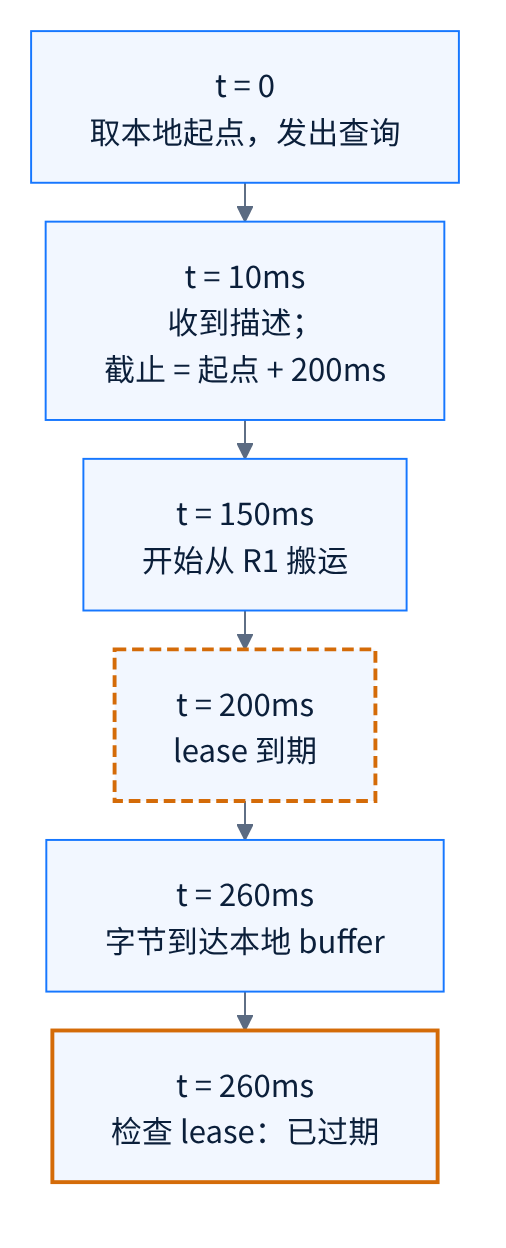
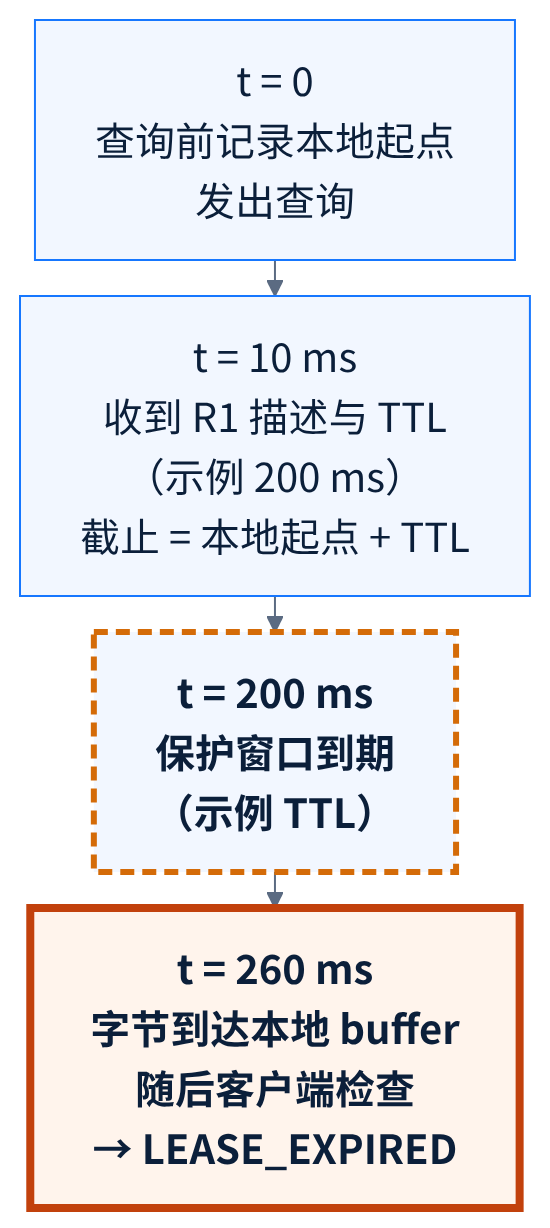
[Docs] Refine WeChat KV cache series titles, figures, and prose
- Rewrite H1 titles around the technical question; keep numbering only in indexes
- Redraw 01 fig1 and 07 fig2 from Graphviz sources for narrow single-column reading
- Compress 04 lease timeline to four nodes and clarify the LOCAL_DISK exception scope
- Restructure 05 troubleshooting into an observation/exclusion/next-check table
- Open 06 with a cross-backend batch failure and separate submitted, accepted, and complete states
- Split 11 shared-Store reuse from Prefill/Decode handoff to avoid repeated explanation

Changed region(s): [[0.0296, 0.0, 0.9783, 0.9902], [0.9486, 0.2476, 0.9783, 0.4951], [0.0296, 0.2476, 0.0593, 0.4951]]

diff --git a/mooncake-kv-cache-series/wechat/README.md b/mooncake-kv-cache-series/wechat/README.md
@@ -8,17 +8,17 @@
 
 | 篇次 | 文章 | 对应源码解析版 |
 |---|---|---|
-| 1 | [同样的 1,024 个前缀 token，第二台推理实例还要再算一遍吗？](01-shared-kv-cache.md) | [篇0：架构总览](../00-architecture-overview.md) |
+| 1 | [同样的 1,024 个前缀 token，第二台推理实例还要重算吗？](01-shared-kv-cache.md) | [篇0：架构总览](../00-architecture-overview.md) |
 | 2 | [一个 KV Cache 对象，在 Mooncake 里到底怎么放？](02-objects-and-replicas.md) | [篇4：核心数据结构](../04-core-data-structures.md) |
-| 3 | [Mooncake 里 KV Cache 字节已经写完，为什么另一个 Client 还读不到？](03-put-visibility.md) | [篇2：Put 路径](../02-put-path.md) |
-| 4 | [Mooncake 里 KV Cache 字节读回来了，这次 Get 为什么还可能失败？](04-get-and-lease.md) | [篇3：Get 路径](../03-get-path.md) |
-| 5 | [Mooncake 里 key 明明存在，为什么还是读不到副本？](05-source-reading.md) | [篇1：源码导航](../01-source-navigation.md) |
+| 3 | [KV 已经写到远端，Mooncake 什么时候才让其他实例读？](03-put-visibility.md) | [篇2：Put 路径](../02-put-path.md) |
+| 4 | [KV 已经读回本地，这次 Get 为什么还会返回 LEASE_EXPIRED？](04-get-and-lease.md) | [篇3：Get 路径](../03-get-path.md) |
+| 5 | [Mooncake 报 REPLICA_IS_NOT_READY，应该从哪里查起？](05-source-reading.md) | [篇1：源码导航](../01-source-navigation.md) |
 | 6 | [Transfer Engine 返回成功，数据就传完了吗？](06-transfer-lifecycle.md) | [篇5：TE 生命周期](../05-transfer-engine-task-lifecycle.md) |
-| 7 | [一次 RDMA 传输，究竟经历了什么？](07-rdma-data-path.md) | [篇6：RDMA 数据路径](../06-rdma-data-path.md) |
+| 7 | [一次 RDMA WRITE：KV 怎么写到远端，谁来确认传输完成？](07-rdma-data-path.md) | [篇6：RDMA 数据路径](../06-rdma-data-path.md) |
 | 8 | [双网卡跑 Mooncake，RDMA 流量到底走了哪张卡？](08-multi-nic-numa.md) | [篇7：多网卡与 NUMA](../07-multi-nic-numa.md) |
-| 9 | [缓存满了，刚被读到的 KV Cache，淘汰线程为什么删不掉它？](09-cache-eviction.md) | [篇8：缓存生命周期](../08-cache-lifecycle.md) |
+| 9 | [已经选中要淘汰的 KV，为什么又被跳过了？](09-cache-eviction.md) | [篇8：缓存生命周期](../08-cache-lifecycle.md) |
 | 10 | [KV Cache 已经写进 SSD，为什么其他节点还可能读不到？](10-ssd-tiering.md) | [篇9：SSD 分层](../09-ssd-tiering.md) |
-| 11 | [共享了 KV Cache，为什么推理不一定更快？](11-kv-reuse-and-inference.md) | [篇10：vLLM 集成](../10-vllm-integration.md) |
+| 11 | [共享 KV Cache 命中了，首个 token 为什么还可能没变快？](11-kv-reuse-and-inference.md) | [篇10：vLLM 集成](../10-vllm-integration.md) |
 
 ## 公众号排版
 
@@ -37,7 +37,9 @@
 
 “配图”说明用于标识插图位置；发布时用导出的图片替换代码块，并保留有解释作用的图注。原理图不表达未经验证的性能倍数。
 
-11 篇均已由 `build_publish.py` 生成 `publish/` 目录下的发布稿 Markdown 与 PNG。`publish/` 下的 HTML、report.json 与 manifest.json 已删除；如需本地预览，需要重新运行完整构建。此前的 360px、390px Chrome 视口检查和第 1、3、4、6、7、10 篇人工复核针对已删除的旧 HTML，不能代表当前 Markdown。本轮未向公众号发布，未做微信编辑器粘贴预览，也未上传公众号素材库。
+第 1 篇配图1 与第 7 篇配图2 需要固定上下位置和就近标注，Mermaid 自动布局无法稳定满足手机单栏阅读，已改用 `figures/*.dot`（Graphviz）作为图源，并导出到 `publish/images/`。其余配图仍以正文中的 Mermaid 块为图源。本轮标题与正文修订直接落在 `publish/` 发布稿，源稿正文尚未逐段回填；重跑完整构建前需先同步，否则会覆盖发布稿正文。
+
+11 篇均已由 `build_publish.py` 生成 `publish/` 目录下的发布稿 Markdown 与 PNG，其中第 1 篇配图1 与第 7 篇配图2 的 PNG 改用 `dot` 从上述 `.dot` 图源渲染。`publish/` 下的 HTML、report.json 与 manifest.json 已删除；如需本地预览，需要重新运行完整构建，但完整构建会用 Mermaid 版覆盖这两张 DOT 渲染的 PNG，之后须按前文命令重新导出。此前的 360px、390px Chrome 视口检查和第 1、3、4、6、7、10 篇人工复核针对已删除的旧 HTML，不能代表当前 Markdown。本轮未向公众号发布，未做微信编辑器粘贴预览，也未上传公众号素材库。
 
 ## 版本与证据边界
 

diff --git a/mooncake-kv-cache-series/wechat/publish/README.md b/mooncake-kv-cache-series/wechat/publish/README.md
@@ -8,19 +8,19 @@
 
 | 篇次 | 文章 | Markdown | 配图 |
 |---|---|---|---|
-| 1 | 第1篇｜同样的 1,024 个前缀 token，第二台推理实例还要再算一遍吗？ | [MD](./01-shared-kv-cache.md) | 1 |
-| 2 | 第2篇｜一个 KV Cache 对象，在 Mooncake 里到底怎么放？ | [MD](./02-objects-and-replicas.md) | 2 |
-| 3 | 第3篇｜Mooncake 里 KV Cache 字节已经写完，为什么另一个 Client 还读不到？ | [MD](./03-put-visibility.md) | 1 |
-| 4 | 第4篇｜Mooncake 里 KV Cache 字节读回来了，这次 Get 为什么还可能失败？ | [MD](./04-get-and-lease.md) | 1 |
-| 5 | 第5篇｜Mooncake 里 key 明明存在，为什么还是读不到副本？ | [MD](./05-source-reading.md) | 0 |
-| 6 | 第6篇｜Transfer Engine 返回成功，数据就传完了吗？ | [MD](./06-transfer-lifecycle.md) | 1 |
-| 7 | 第7篇｜一次 RDMA 传输，究竟经历了什么？ | [MD](./07-rdma-data-path.md) | 2 |
-| 8 | 第8篇｜双网卡跑 Mooncake，RDMA 流量到底走了哪张卡？ | [MD](./08-multi-nic-numa.md) | 1 |
-| 9 | 第9篇｜缓存满了，刚被读到的 KV Cache，淘汰线程为什么删不掉它？ | [MD](./09-cache-eviction.md) | 1 |
-| 10 | 第10篇｜KV Cache 已经写进 SSD，为什么其他节点还可能读不到？ | [MD](./10-ssd-tiering.md) | 2 |
-| 11 | 第11篇｜共享了 KV Cache，为什么推理不一定更快？ | [MD](./11-kv-reuse-and-inference.md) | 2 |
+| 1 | 同样的 1,024 个前缀 token，第二台推理实例还要重算吗？ | [MD](./01-shared-kv-cache.md) | 1 |
+| 2 | 一个 KV Cache 对象，在 Mooncake 里到底怎么放？ | [MD](./02-objects-and-replicas.md) | 2 |
+| 3 | KV 已经写到远端，Mooncake 什么时候才让其他实例读？ | [MD](./03-put-visibility.md) | 1 |
+| 4 | KV 已经读回本地，这次 Get 为什么还会返回 LEASE_EXPIRED？ | [MD](./04-get-and-lease.md) | 1 |
+| 5 | Mooncake 报 REPLICA_IS_NOT_READY，应该从哪里查起？ | [MD](./05-source-reading.md) | 0 |
+| 6 | Transfer Engine 返回成功，数据就传完了吗？ | [MD](./06-transfer-lifecycle.md) | 1 |
+| 7 | 一次 RDMA WRITE：KV 怎么写到远端，谁来确认传输完成？ | [MD](./07-rdma-data-path.md) | 2 |
+| 8 | 双网卡跑 Mooncake，RDMA 流量到底走了哪张卡？ | [MD](./08-multi-nic-numa.md) | 1 |
+| 9 | 已经选中要淘汰的 KV，为什么又被跳过了？ | [MD](./09-cache-eviction.md) | 1 |
+| 10 | KV Cache 已经写进 SSD，为什么其他节点还可能读不到？ | [MD](./10-ssd-tiering.md) | 2 |
+| 11 | 共享 KV Cache 命中了，首个 token 为什么还可能没变快？ | [MD](./11-kv-reuse-and-inference.md) | 2 |
 
-11 篇 Markdown 均已与源稿同步；配图数量为源稿中的 Mermaid 图数量。HTML 已删除，当前目录没有可打开的本地预览页。
+11 篇发布稿 Markdown 与配图均已保留；配图数量与源稿一致。发布稿正文是本轮修订后的版本，`wechat/` 源稿仍保留旧正文与 Mermaid 图源，二者尚未逐段同步。第1篇配图1、第7篇配图2 已改为 Graphviz DOT 图源（`../figures/*.dot`），PNG 由 `dot` 手动渲染；源稿中对应 Mermaid 块仅保留作语义参考。第4篇配图1 仍由 Mermaid 渲染。HTML 已删除，当前目录没有可打开的本地预览页。
 
 ## 构建与校验
 
@@ -32,6 +32,15 @@ python3 build_publish.py --articles all \
 ```
 
 脚本只替换 Mermaid 图与相对链接，不改写正文。完整构建会重新生成 HTML、`report.json`、`manifest.json` 与配图；当前仓库只保留发布稿 Markdown 和已导出的 PNG。
+
+注意：构建从 `wechat/NN-*.md` 读取正文，而本轮只修订了 `publish/` 下的正文。直接重跑完整构建会用源稿旧正文覆盖当前发布稿；若需重建，先把发布稿正文回填源稿。
+
+注意：`build_publish.py` 目前只渲染 Mermaid，不认识 `figures/*.dot`。直接重跑完整构建会用 Mermaid 版覆盖第1篇配图1和第7篇配图2的 PNG。这两张图需要先运行：
+
+```bash
+dot -Tpng -Gdpi=288 figures/01-shared-kv-cache-fig1.dot -o publish/images/01-shared-kv-cache-fig1.png
+dot -Tpng -Gdpi=288 figures/07-rdma-data-path-fig2.dot -o publish/images/07-rdma-data-path-fig2.png
+```
 
 本轮没有重建 HTML，因此没有新的 md2wx 报告或浏览器视口检查。HTML 恢复后，仍需在 360px、390px 视口检查横向溢出、图片加载和表格宽度。
 

diff --git a/mooncake-kv-cache-series/wechat/publish/11-kv-reuse-and-inference.md b/mooncake-kv-cache-series/wechat/publish/11-kv-reuse-and-inference.md
@@ -1,8 +1,8 @@
-# 第11篇｜共享了 KV Cache，为什么推理不一定更快？
+# 共享 KV Cache 命中了，首个 token 为什么还可能没变快？
 
 **摘要：**推理实例 A 写入的 1,024 token 前缀，推理实例 B 能命中。B 什么时候拿到首个 token，取决于加载、同步和调度，而不只取决于"命中"。
 
-回到第1篇的推理实例 A 和推理实例 B（下文简称 A、B）：同一段 1,024 个 token 的前缀，A 已经算过并以 key `K` 写入共享缓存，B 的请求命中这段前缀。
+回到第1篇的推理实例 A 和推理实例 B：同一段 1,024 个 token 的前缀，A 已经算过并以 key `K` 写入共享缓存，B 的请求命中这段前缀。
 
 B 不用再 Prefill 这 1,024 个 token，是否就能更早输出首个 token？
 
@@ -25,17 +25,17 @@ B 的框架大致要经过这些动作：
 
 ## Store 共享缓存与 PD 直传要分开
 
-一种路径是共享 Store：按 key 查找并加载已有 KV 对象。A 和 B 不需要知道对方是谁，只需要生成兼容的 key，并读出同一个对象。
+先看共享 Store 的跨请求复用。A 为前一个请求写入这段前缀的 KV；另一个请求落到 B 上，B 用兼容的 key 查询并加载同一个对象。两个请求共享前缀，但 A 和 B 不需要知道对方是谁。
 
-![配图1：跨请求的 key 查询与加载。](images/11-kv-reuse-and-inference-fig1.png)
+![配图1：两个请求通过同一个 key 复用前缀 KV。](images/11-kv-reuse-and-inference-fig1.png)
 
-图注：A 在一个请求写入 K，B 在另一个请求按同一 key 查询并加载；两者不需要知道对方是谁。图中省略布局转换与调度器确认。
+图注：请求 1 由 A 写入 `K`；请求 2 由 B 按同一 key 查询并加载。A 提交 `PutEnd` 后，B 才可能查到 R1；图中省略布局转换与调度器确认。
 
-另一种路径是 Prefill/Decode 分离中的点对点传输：把某个请求产生的 KV 交给对应的 Decode 实例。它按请求协调，不依赖一个可被任意请求查询的共享池。
+另一种路径是 Prefill/Decode 分离中的点对点传输。这时不是两个请求共享一段前缀，而是同一个请求从 Prefill 交给 Decode：Prefill 阶段算完本轮请求的 KV，交给 Decode 阶段继续生成。
 
-![配图2：同一请求内的 Prefill→Decode 交接。](images/11-kv-reuse-and-inference-fig2.png)
+![配图2：同一个请求从 Prefill 交给 Decode。](images/11-kv-reuse-and-inference-fig2.png)
 
-图注：Prefill 实例把本轮请求的 KV 直接交给 Decode 实例；按请求协调，不经过可被任意请求查询的共享池。
+图注：交接按请求协调，不经过可被任意请求查询的共享池；两个阶段因此不需要共享 key。
 
 两者都可以使用 Mooncake 的传输能力，但协调对象和生命周期不同。本篇的 A/B 例子属于 Store 共享缓存路径。
 

diff --git a/mooncake-kv-cache-series/wechat/04-get-and-lease.md b/mooncake-kv-cache-series/wechat/04-get-and-lease.md
@@ -1,4 +1,4 @@
-# 第4篇｜Mooncake 里 KV Cache 字节读回来了，这次 Get 为什么还可能失败？
+# KV 已经读回本地，这次 Get 为什么还会返回 LEASE_EXPIRED？
 
 **摘要：**推理实例 B 从 R1 读回了字节，这次 Get 仍可能失败。定位、搬完、可接受，是三个不同时刻。
 
@@ -23,20 +23,20 @@ Master 在返回可读副本列表时授予 lease，并在响应里带上 TTL。
 *配图1：一次跨过 lease 到期的读取时间线。*
 
 ```mermaid
-%%{init: {"flowchart": {"nodeSpacing": 20, "rankSpacing": 20}}}%%
+%%{init: {"flowchart": {"nodeSpacing": 12, "rankSpacing": 18}}}%%
 flowchart TB
-    T0["t = 0<br/>取本地起点，发出查询"]
-    T1["t = 10ms<br/>收到描述；<br/>截止 = 起点 + 200ms"]
-    T2["t = 150ms<br/>开始从 R1 搬运"]
-    T3["t = 200ms<br/>lease 到期"]
-    T4["t = 260ms<br/>字节到达本地 buffer"]
-    T5["t = 260ms<br/>检查 lease：已过期"]
-    T0 --> T1 --> T2 --> T3 --> T4 --> T5
-    style T3 stroke:#D46B08,stroke-width:2px,stroke-dasharray:6 3
-    style T5 stroke:#D46B08,stroke-width:2px
+    T0["t = 0<br/>查询前记录本地起点<br/>发出查询"]
+    T1["t = 10 ms<br/>收到 R1 描述与 TTL<br/>（示例 200 ms）<br/>截止 = 本地起点 + TTL"]
+    T2["t = 200 ms<br/>保护窗口到期<br/>（示例 TTL）"]
+    T3["t = 260 ms<br/>字节到达本地 buffer<br/>随后客户端检查<br/>→ LEASE_EXPIRED"]
+
+    T0 --> T1 --> T2 --> T3
+
+    style T2 stroke:#D46B08,stroke-width:3px,stroke-dasharray:7 4,font-weight:bold
+    style T3 stroke:#C2410C,stroke-width:4px,font-weight:bold,fill:#FFF4EC
 ```
 
-*图注：B 在查询前取本地起点，截止 = 起点 + TTL。搬运跨过截止点后，字节仍可能到达，但事后检查返回 `LEASE_EXPIRED`。橙色虚线框标出到期点；`LOCAL_DISK` offload 例外见正文。*
+*图注：橙色虚线框是 200 ms 到期点，最后一项是 260 ms 的完成点；字节到达在前，客户端检查在后。*
 
 这里说的"事后检查"有明确范围。`v0.3.13.post1` 中，`RealClient::get_buffer_internal` 的 `LOCAL_DISK` 全量 offload 分支直接调用 `batch_get_into_offload_object_internal`，之后只做 checksum，不调用 `IsLeaseExpired`，因此不经过 `Client::Get` 的同一处事后检查。同一实现里的 `DISK` 副本仍走 `Client::Get`，会经过检查。所以例外属于那条 offload 路径，不能外推到所有磁盘读取。
 

diff --git a/mooncake-kv-cache-series/wechat/publish/06-transfer-lifecycle.md b/mooncake-kv-cache-series/wechat/publish/06-transfer-lifecycle.md
@@ -1,18 +1,20 @@
-# 第6篇｜Transfer Engine 返回成功，数据就传完了吗？
+# Transfer Engine 返回成功，数据就传完了吗？
 
 **摘要：**一个 batch 跨两个后端提交，第一个后端已接收，第二个提交失败。哪些工作还在进行？调用方最早什么时候能释放资源？
 
-在 Mooncake 里，调用一次 Transfer Engine 的传输接口，收到成功返回，随后释放源 buffer。
+一次传输里，调用方提交了一个跨两个后端的 batch：前两个请求进入后端 A，第三个请求进入后端 B。后端 A 已经接收任务，后端 B 随后提交失败，错误码返回给了调用方。
 
-这段逻辑看起来很自然，但如果接口采用异步执行，它就可能过早释放仍被后端使用的数据。
+现在能释放源 buffer 吗？
 
-理解 Transfer Engine，首先要分清两种“成功”：一种是请求被接受，另一种是传输真的完成了。
+先回到后端 A。它接收的任务仍可能执行：请求已经进入队列或设备路径，设备仍可能访问那段内存。错误码只说明后端 B 没有提交成功，没有撤销后端 A 已经接收的工作。
+
+这里要分清三件事：某个请求被提交、部分 task 已被后端接收、整批传输最终完成。后端 A 接收，只说明中间那件。
+
+哪些任务还在运行、调用方靠什么判断，要先看清 batch、task、slice 的组织关系。
 
 ## 一个 batch 里有三种层次
 
-调用方通常以 batch 管理一组工作。
-
-内部可能包含多个 task，而一个 task 又可能拆成多个 slice。具体后端负责把这些片段交给网络或设备执行。
+调用方通常以 batch 管理一组工作。内部可能包含多个 task，一个 task 又可能拆成多个 slice，具体后端负责把这些片段交给网络或设备执行。
 
 ![配图1：传输任务层级。](images/06-transfer-lifecycle-fig1.png)
 
@@ -22,7 +24,7 @@
 
 ## 一个跨两个后端的 batch
 
-假设一个 batch 有 3 个请求，提交时按 transport 分成两组：前两个请求进入后端 A，第三个请求进入后端 B。
+回到开头那个 batch：3 个请求按 transport 分成两组。
 
 `MultiTransport::submitTransfer` 先按请求建立 task，再按 transport 分组提交。后端 A 接受了前两个请求的工作；后端 B 在提交第三个请求时返回错误。
 

diff --git a/mooncake-kv-cache-series/wechat/publish/05-source-reading.md b/mooncake-kv-cache-series/wechat/publish/05-source-reading.md
@@ -1,8 +1,8 @@
-# 第5篇｜Mooncake 里 key 明明存在，为什么还是读不到副本？
+# Mooncake 报 REPLICA_IS_NOT_READY，应该从哪里查起？
 
 **摘要：**推理实例 B 查询 key `K` 却收到 `REPLICA_IS_NOT_READY`。同一个错误码可能来自不同分支；沿查询走四站，看每一站能排除什么、下一步该查什么。
 
-在 Mooncake 里，推理实例 B（下文简称实例 B）查询 key `K`，Master 返回 `REPLICA_IS_NOT_READY`。
+推理实例 B 查询 key `K`，Master 返回 `REPLICA_IS_NOT_READY`。
 
 这个错误容易被直接理解成"对象不存在"或"再等等就好"。但同一个返回码背后，可能是副本还在 `PROCESSING`，也可能是句柄或传输端点失效。只看一行错误日志，分不出是哪一种。
 
@@ -47,12 +47,15 @@ key 存在之后，`GetReplicaList` 用 `VisitReplicas` 遍历副本，只把通
 
 因此，`REPLICA_IS_NOT_READY` 还排除了"所有副本都已移除"。它表示列表为空，但至少有一个副本不是 `REMOVED`——可能仍在 `PROCESSING`，也可能句柄或传输端点已经失效。
 
-把这条查询路径压成判断顺序，就是：
+把这条查询路径压成一张排查表：
 
-1. key 不存在 → `OBJECT_NOT_FOUND`；
-2. key 存在，且存在通过 `IsReplicaReadable` 的副本 → 返回可读副本列表与 lease；
-3. key 存在，没有可读副本，且所有副本都是 `REMOVED` → `OBJECT_NOT_FOUND`；
-4. key 存在，没有可读副本，但不是全部 `REMOVED` → `REPLICA_IS_NOT_READY`。
+| 观察到什么 | 能排除什么 | 下一步查哪里 |
+|---|---|---|
+| `OBJECT_NOT_FOUND` | 无法据此区分"从未写入"与"副本全部移除" | 核对 key 与命名空间；再查副本是否都已 `REMOVED` |
+| `REPLICA_IS_NOT_READY` | key 存在；至少一个副本不是 `REMOVED`，但没有副本通过 `IsReplicaReadable` | 查副本状态、内存/NoF 句柄、传输端点 |
+| 可读副本列表与 lease | 查询阶段已通过 | 若后续仍失败，转向客户端选择、搬运与 lease 检查 |
+
+表中前两行对应第二站到第四站；第三行把排查引向查询之后的阶段。
 
 ## 用测试确认 PROCESSING 这一种情况
 

diff --git a/mooncake-kv-cache-series/wechat/publish/07-rdma-data-path.md b/mooncake-kv-cache-series/wechat/publish/07-rdma-data-path.md
@@ -1,8 +1,8 @@
-# 第7篇｜一次 RDMA 传输，究竟经历了什么？
+# 一次 RDMA WRITE：KV 怎么写到远端，谁来确认传输完成？
 
 **摘要：**推理实例 A 把主机内存里的 KV 写到远端 R1。沿着一次 WRITE 看源 buffer、目标 buffer、WR 提交与本地完成观察。
 
-推理实例 A（下文简称实例 A）算完一段前缀 KV，准备把它写入 R1。R1 是这次写入在远端 Store Segment 中分配到的副本区间。源数据在 A 的主机内存里，目标 R1 在另一台机器，两端都通过 RDMA 访问。
+推理实例 A 算完一段前缀 KV，准备把它写入 R1。R1 是这次写入在远端 Store Segment 中分配到的副本区间。源数据在 A 的主机内存里，目标 R1 在另一台机器，两端都通过 RDMA 访问。
 
 这一篇只跟这一条从主机内存到远端已注册内存的 WRITE 路径。它回答四个问题：源和目标的 buffer 在哪里，哪些准备可以复用，谁提交这次搬运，谁观察本地完成。
 
@@ -46,9 +46,11 @@ WR 描述希望网卡执行的工作。在这条固定路径上，`RdmaEndPoint:
 
 这里观察的是本地完成：本地 RNIC 已经回收这次 WRITE 的完成事件。远端应用是否已经处理这块内存，不在这个 CQE 的语义里。
 
-![配图2：一次 WRITE 与本地完成。](images/07-rdma-data-path-fig2.png)
+把提交、搬运和完成观察放在同一张图里，就能看清哪些动作发生在本地、哪些发生在远端。
 
-图注：软件提交发生在本地 TE 到本地 RNIC；对象字节经 RDMA WRITE 到达远端 RNIC，再 DMA 写入 R1。CQE 只表示本地完成；副本可见性还要等 PutEnd（第3篇）。
+![配图2：一次 WRITE 的提交、搬运与本地完成。](images/07-rdma-data-path-fig2.png)
+
+图注：本地 worker 提交 WR，本地 RNIC 从源 buffer 取数，经 RDMA WRITE 写入远端 R1；本地 worker 轮询本地 CQ 观察完成。CQE 只表示本地传输完成，副本要对其他客户端可查，还要等 `PutEnd`。
 
 这就形成一条流水线：
 

diff --git a/mooncake-kv-cache-series/wechat/publish/03-put-visibility.md b/mooncake-kv-cache-series/wechat/publish/03-put-visibility.md
@@ -1,10 +1,10 @@
-# 第3篇｜Mooncake 里 KV Cache 字节已经写完，为什么另一个 Client 还读不到？
+# KV 已经写到远端，Mooncake 什么时候才让其他实例读？
 
 **摘要：**推理实例 A 的字节已经写完，推理实例 B 仍可能查不到可读副本。数据搬完与副本提交，为什么是两个时刻？
 
-在 Mooncake 里，推理实例 A（下文简称实例 A）正在把前缀 KV 写入共享缓存，key 是 `K`。
+推理实例 A 正在把前缀 KV 写入共享缓存，key 是 `K`。
 
-数据已经开始通过网络搬运，另一台机器上的推理实例 B（下文简称实例 B）恰好查询同一个 key。此时 B 应该读到什么？
+数据已经开始通过网络搬运，另一台机器上的推理实例 B 恰好查询同一个 key。此时 B 应该读到什么？
 
 如果系统只看"空间已经分配"，就可能把一份尚未写完的数据交出去。如果只看"字节已经到达"，又可能忽略提交这一步。
 

diff --git a/mooncake-kv-cache-series/wechat/publish/08-multi-nic-numa.md b/mooncake-kv-cache-series/wechat/publish/08-multi-nic-numa.md
@@ -1,8 +1,8 @@
-# 第8篇｜双网卡跑 Mooncake，RDMA 流量到底走了哪张卡？
+# 双网卡跑 Mooncake，RDMA 流量到底走了哪张卡？
 
 **摘要：**拓扑上更近、当下可选、实际使用，是三个不同答案。用一台双 NUMA、双网卡主机跟一次传输，并用只改本地 HCA 的最小对照验证选路。
 
-一台服务器上有两个 NUMA 节点，每个节点各挂一张 RDMA 网卡。推理实例 A（下文简称实例 A）的发送进程绑定在 NUMA 0 的 CPU 上，源 buffer 也分配在 NUMA 0；两张网卡都能连到远端同一个 R1 Segment。
+一台服务器上有两个 NUMA 节点，每个节点各挂一张 RDMA 网卡。推理实例 A 的发送进程绑定在 NUMA 0 的 CPU 上，源 buffer 也分配在 NUMA 0；两张网卡都能连到远端同一个 R1 Segment。
 
 A 发起一次主机内存到 R1 的传输。哪张网卡在拓扑上更近？哪张在注册和连接条件下真的可选？最后实际用了哪张？
 
